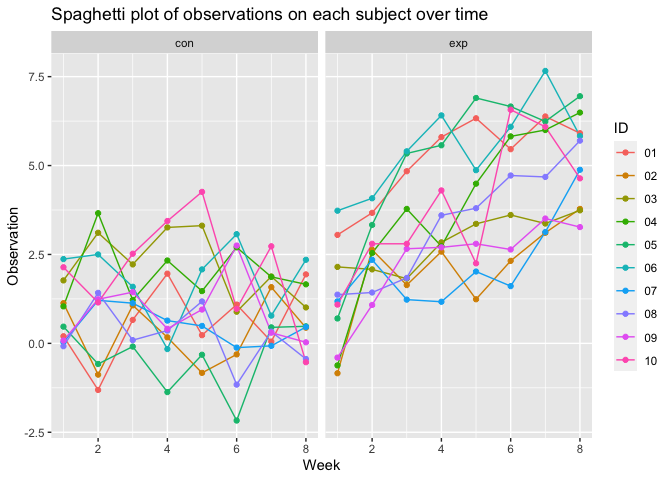
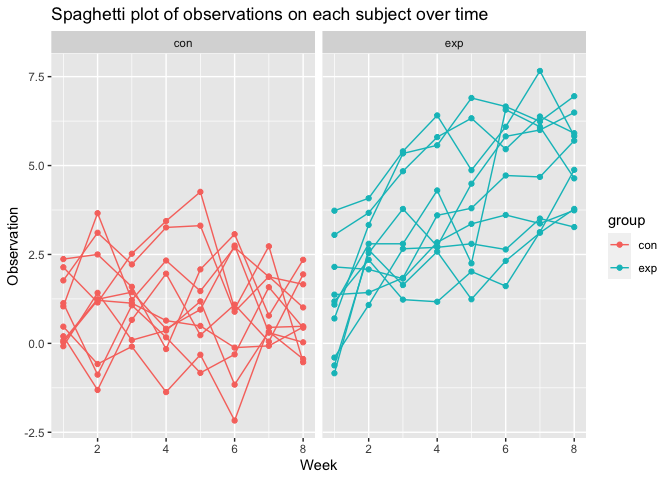
update spaghetti plot

diff --git a/p8105_hw5_qh2284.md b/p8105_hw5_qh2284.md
@@ -356,6 +356,7 @@ tidy_data =
     ID = str_sub(files, 5, 7)) %>% 
   pivot_longer(week_1:week_8,names_to = "week", values_to = "observation",names_prefix = "week_") %>% 
   mutate(week = as.numeric(week)) %>% 
+  mutate(observation = as.numeric(observation)) %>%
   dplyr::select(group, ID, week, observation)
 
 tidy_data
@@ -382,9 +383,9 @@ and comment on differences between groups.**
 ``` r
 # make a spaghetti plot
 spa_plot = tidy_data %>%
-  ggplot(aes(x = week, y = observation, color = ID)) +
-  geom_line() +
-  geom_point() + 
+  ggplot(aes(x = week, y = observation, group = ID, color = group)) +
+  geom_path() +
+  geom_point() +
   facet_grid(~group) +
   labs(x = 'Week', y = 'Observation', title = 'Spaghetti plot of observations on each subject over time')
 
@@ -449,16 +450,16 @@ mean_0
     ## # A tibble: 5,000 × 4
     ##     mean iteration estimate p_value
     ##    <dbl>     <int>    <dbl>   <dbl>
-    ##  1     0         1   1.32    0.195 
-    ##  2     0         2   1.86    0.0874
-    ##  3     0         3   1.26    0.196 
-    ##  4     0         4  -0.469   0.622 
-    ##  5     0         5  -2.06    0.0226
-    ##  6     0         6   0.605   0.483 
-    ##  7     0         7  -1.21    0.248 
-    ##  8     0         8   1.75    0.0490
-    ##  9     0         9  -1.39    0.106 
-    ## 10     0        10  -0.0423  0.962 
+    ##  1     0         1    0.505   0.653
+    ##  2     0         2    0.980   0.279
+    ##  3     0         3    0.265   0.778
+    ##  4     0         4   -1.00    0.345
+    ##  5     0         5    0.384   0.719
+    ##  6     0         6   -0.753   0.463
+    ##  7     0         7   -0.144   0.882
+    ##  8     0         8    0.882   0.432
+    ##  9     0         9   -0.767   0.390
+    ## 10     0        10   -0.137   0.871
     ## # ℹ 4,990 more rows
 
 **Repeat the above for** $\mu = \{1,2,3,4,5,6\}$**, and complete the
